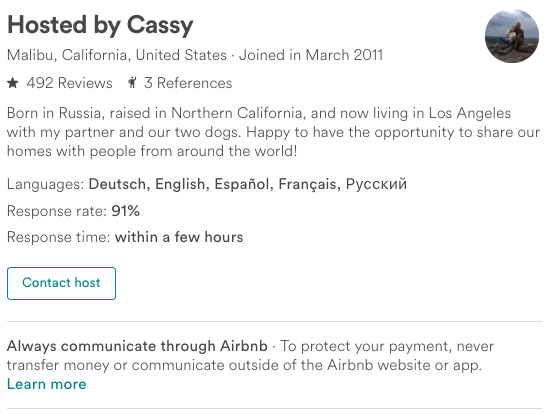
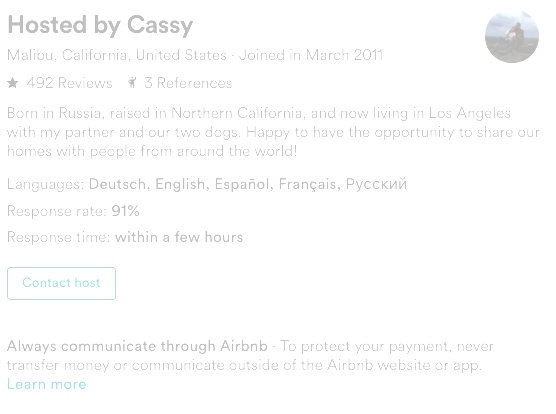
lightened placeholder images to more easily distinguish between them and the real modules

diff --git a/public/index.html b/public/index.html
@@ -10,27 +10,29 @@
       <div class='center-column'>
 
         <div class='details'>
-          <div id='description'>
+          <div id='description-service'>
             <img src='1.png'>
             <img src='2.png'>
           </div>
           <div id='reviews-service'><img src='3.png'></div>
           <div class='host'><img src='4.png'></div>
-          <div id='neighborhood' class='div-neighborhood'><img src='5.png'></div>
+          <div id='neighborhood'><img src='5.png'></div>
         </div>
 
-        <div class='booking' id='booking'><img src='booking.png'></div>
+        <div class='booking' id='booking-service'><img src='booking.png'></div>
 
       </div>
 
-      <div id='similar-listings'><img src='6.png'></div>
+      <div id='app'><img src='6.png'></div>
       <div class='bottom-bar'><img src='7.png'></div>
     </div>
 
     <!-- Stolen from Fred's example -->
+<!-- 
     <script src="/lib/react.development.js"></script>
     <script src="/lib/react-dom.development.js"></script>
-    <script src="http://localhost:3002/bundle.js"></script>
+     -->
+    <script src="http://localhost:3002/app-description.bundle.js"></script>
     <script src="http://localhost:3003/bundle.js"></script>
     <script src="http://localhost:3004/bundle.js"></script>
     <script src="http://localhost:3006/bundle.js"></script>

diff --git a/server.js b/server.js
@@ -1,5 +1,6 @@
 var express = require('express');
 var app = express();
+
 app.use('/rooms/:roomid', express.static(`${__dirname}/public/`));
 
 app.use(function(req, res, next) {
@@ -12,12 +13,32 @@ app.get('/rooms/:roomid', (req,res) => {
   res.sendFile(`${__dirname}/public/index.html`);
 });
 
+// Description Redirection
+app.get('/api/rooms/:roomid/description', (req,res) => {
+  res.redirect(`http://localhost:3002/api/rooms/${req.params.roomid}/description`);
+});
+
+// Booking Redirection
+app.get('/rooms/:roomid/bookings', (req,res) => {
+  res.redirect(`http://localhost:3003/rooms/${req.params.roomid}/bookings`);
+});
+
+// Review Redirections
 app.get('/rooms/:roomid/reviews', (req,res) => {
-  res.redirect('http://localhost:3004');
+  res.redirect(`http://localhost:3004/rooms/${req.params.roomid}/reviews`);
 });
 
 app.get('/rooms/:roomid/ratings', (req,res) => {
-  res.redirect('http://localhost:3004');
+  res.redirect(`http://localhost:3004/rooms/${req.params.roomid}/ratings`);
+});
+
+// Similar Listing Redirection
+app.get('/rooms/:roomid/similarListings', (req,res) => {
+  res.redirect(`http://localhost:3007/rooms/${req.params.roomid}/similarListings`);
+});
+
+app.get('/rooms/images/:imagefile', (req,res) => {
+  res.redirect(`http://localhost:3007/images/${req.params.imagefile}`);
 });
 
 app.listen(3000);

diff --git a/public/style.css b/public/style.css
@@ -6,6 +6,8 @@
 .center-column {
   display: flex;
   justify-content: space-between;
+  max-width: 1030px;
+  margin: 0 auto;
 }
 
 .booking {
@@ -18,10 +20,14 @@
   width: 60%;
 }
 
+.div-description-body {
+  width: inherit !important;
+  float: inherit !important;
+}
 /*
 div {
-  border: solid 1px black;
-  padding: 3px;
-  margin: 3px;
+  border: solid 1px green;
+  padding: 1px;
+  margin: 1px;
 }
 */
